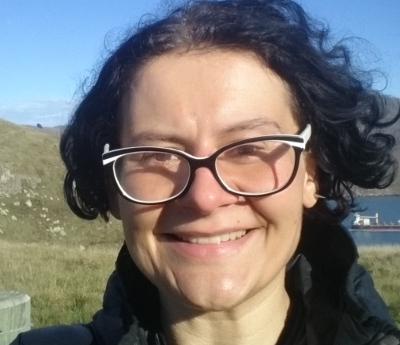
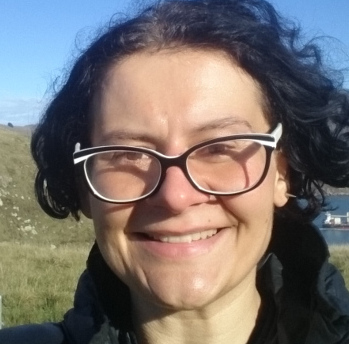
Add team and advisors to footer; fix up photos

diff --git a/src/about/advisory-board.html b/src/about/advisory-board.html
@@ -38,7 +38,7 @@ Advisory Board : Stencila
                         </div>
                         <div class="column is-flex is-2 align-centre flex-justify-centre">
                             <figure class="image is-128x128">
-                                <img class="is-rounded" src="/img/about/Josh-Greenberg.png">
+                                <img class="is-rounded" src="/img/about/josh-greenberg.png">
                             </figure>
                         </div>
                     </div>
@@ -48,7 +48,7 @@ Advisory Board : Stencila
                     <div class="columns">
                         <div class="column is-flex is-2 align-centre flex-justify-centre">
                             <figure class="image is-128x128">
-                                <img class="is-rounded" src="/img/about/ben_kepes.jpg">
+                                <img class="is-rounded" src="/img/about/ben-kepes.jpg">
                             </figure>
                         </div>
                         <div class="column is-9">
@@ -77,7 +77,7 @@ Advisory Board : Stencila
                         </div>
                         <div class="column is-flex is-2 align-centre flex-justify-centre">
                             <figure class="image is-128x128">
-                                <img class="is-rounded" src="/img/about/Kristen_Ratan.jpg">
+                                <img class="is-rounded" src="/img/about/kristen-ratan.jpg">
                             </figure>
                         </div>
                     </div>
@@ -86,7 +86,7 @@ Advisory Board : Stencila
                     <div class="columns">
                         <div class="column is-flex is-2 align-centre flex-justify-centre">
                             <figure class="image is-128x128">
-                                <img class="is-rounded" src="/img/about/danielle_robinson.jpg">
+                                <img class="is-rounded" src="/img/about/danielle-robinson.jpg">
                             </figure>
                         </div>
                         <div class="column is-9">
@@ -117,7 +117,7 @@ Advisory Board : Stencila
                         </div>
                         <div class="column is-flex is-2 align-centre flex-justify-centre">
                             <figure class="image is-128x128">
-                                <img class="is-rounded" src="/img/about/finlay_thompson.jpg">
+                                <img class="is-rounded" src="/img/about/finlay-thompson.jpg">
                             </figure>
                         </div>
                     </div>
@@ -126,7 +126,7 @@ Advisory Board : Stencila
                     <div class="columns">
                         <div class="column is-flex is-2 align-centre flex-justify-centre">
                             <figure class="image is-128x128">
-                                <img class="is-rounded" src="/img/about/greg_wilson.jpg">
+                                <img class="is-rounded" src="/img/about/greg-wilson.jpg">
                             </figure>
                         </div>
                         <div class="column is-9">
@@ -146,16 +146,15 @@ Advisory Board : Stencila
 
             </div>
 
-            <div class="column is-2 is-offset-1">
+
+            <div class="column is-2 offset-1">
                 <aside class="menu section">
                     <p class="menu-label">
                         About
                     </p>
                     <ul class="menu-list">
-                        <!--<li><a href="our-story.html">Our story</a></li> -->
                         <li><a href="team.html">Team</a></li>
                         <li><a href="advisory-board.html">Advisory Board</a></li>
-                        <li><a href="contributors.html">Contributors</a></li>
                     </ul>
                 </aside>
             </div>
@@ -163,29 +162,4 @@ Advisory Board : Stencila
     </div>
 </main>
 
-{% endblock %}
-
-{% block styles %}
-{{ super() }}
-<style type="text/css">
-    main .menu {
-        padding-top: 4em;
-        padding-left: 2em;
-        position: fixed;
-    }
-
-    @media(max-width: 1000px) {
-
-        #discuss .columns,
-        #code-of-conduct .columns,
-        #section-5 .columns {
-            flex-direction: column-reverse;
-            display: flex;
-        }
-
-        main .menu {
-            position: relative;
-        }
-    }
-</style>
 {% endblock %}

diff --git a/src/about/team.html b/src/about/team.html
@@ -31,7 +31,7 @@ Advisory Board : Stencila
                     <div class="columns">
                         <div class="column is-flex is-2 align-centre flex-justify-centre">
                             <figure class="image is-128x128">
-                                <img class="is-rounded" src="/img/about/nokome.jpg">
+                                <img class="is-rounded" src="/img/about/nokome-bentley.jpg">
                             </figure>
                         </div>
                         <div class="column is-9">
@@ -63,7 +63,7 @@ Advisory Board : Stencila
                         </div>
                         <div class="column is-flex is-2 align-centre flex-justify-centre">
                             <figure class="image is-128x128">
-                                <img class="is-rounded" src="/img/about/aleksandra_centred.jpg">
+                                <img class="is-rounded" src="/img/about/aleksandra-pawlik.jpg">
                             </figure>
                         </div>
                     </div>
@@ -73,7 +73,7 @@ Advisory Board : Stencila
                     <div class="columns">
                         <div class="column is-flex is-2 align-centre flex-justify-centre">
                             <figure class="image is-128x128">
-                                <img class="is-rounded" src="/img/about/ben.jpg">
+                                <img class="is-rounded" src="/img/about/ben-shaw.jpg">
                             </figure>
                         </div>
                         <div class="column is-9">
@@ -93,16 +93,14 @@ Advisory Board : Stencila
 
             </div>
 
-            <div class="column  is-2 offset-1">
+            <div class="column is-2 offset-1">
                 <aside class="menu section">
                     <p class="menu-label">
                         About
                     </p>
                     <ul class="menu-list">
-                        <!-- <li><a href="our-story.html">Our story</a></li>-->
                         <li><a href="team.html">Team</a></li>
                         <li><a href="advisory-board.html">Advisory Board</a></li>
-                        <li><a href="contributors.html">Contributors</a></li>
                     </ul>
                 </aside>
             </div>

diff --git a/src/_footer.html b/src/_footer.html
@@ -2,7 +2,7 @@
     <div class="container">
         <div class="columns footer-links is-centered">
             <div class="column is-2">
-                <h4 class="title"> About </h4>
+                <h4 class="title"> Tools </h4>
                 <a href="/use">Use </a> <br />
                 <a href="/learn/intro.html"> Learn </a> <br />
                 <a href="/learn/faq.html"> FAQ </a> <br />
@@ -13,6 +13,11 @@
                 <a href="/community/beta-testing.html"> Beta Testing </a> <br />
                 <a href="/community/resources.html"> Resources </a> <br />
                 <a href="/blog"> Blog </a> <br />
+            </div>
+            <div class="column is-2">
+                <h4 class="title"> About </h4>
+                <a href="/about/team.html">Team</a> <br />
+                <a href="/about/advisory-board.html">Advisors</a> <br />
             </div>
             <div class="column is-2">
                 <h4 class="title"> Contact </h4>
